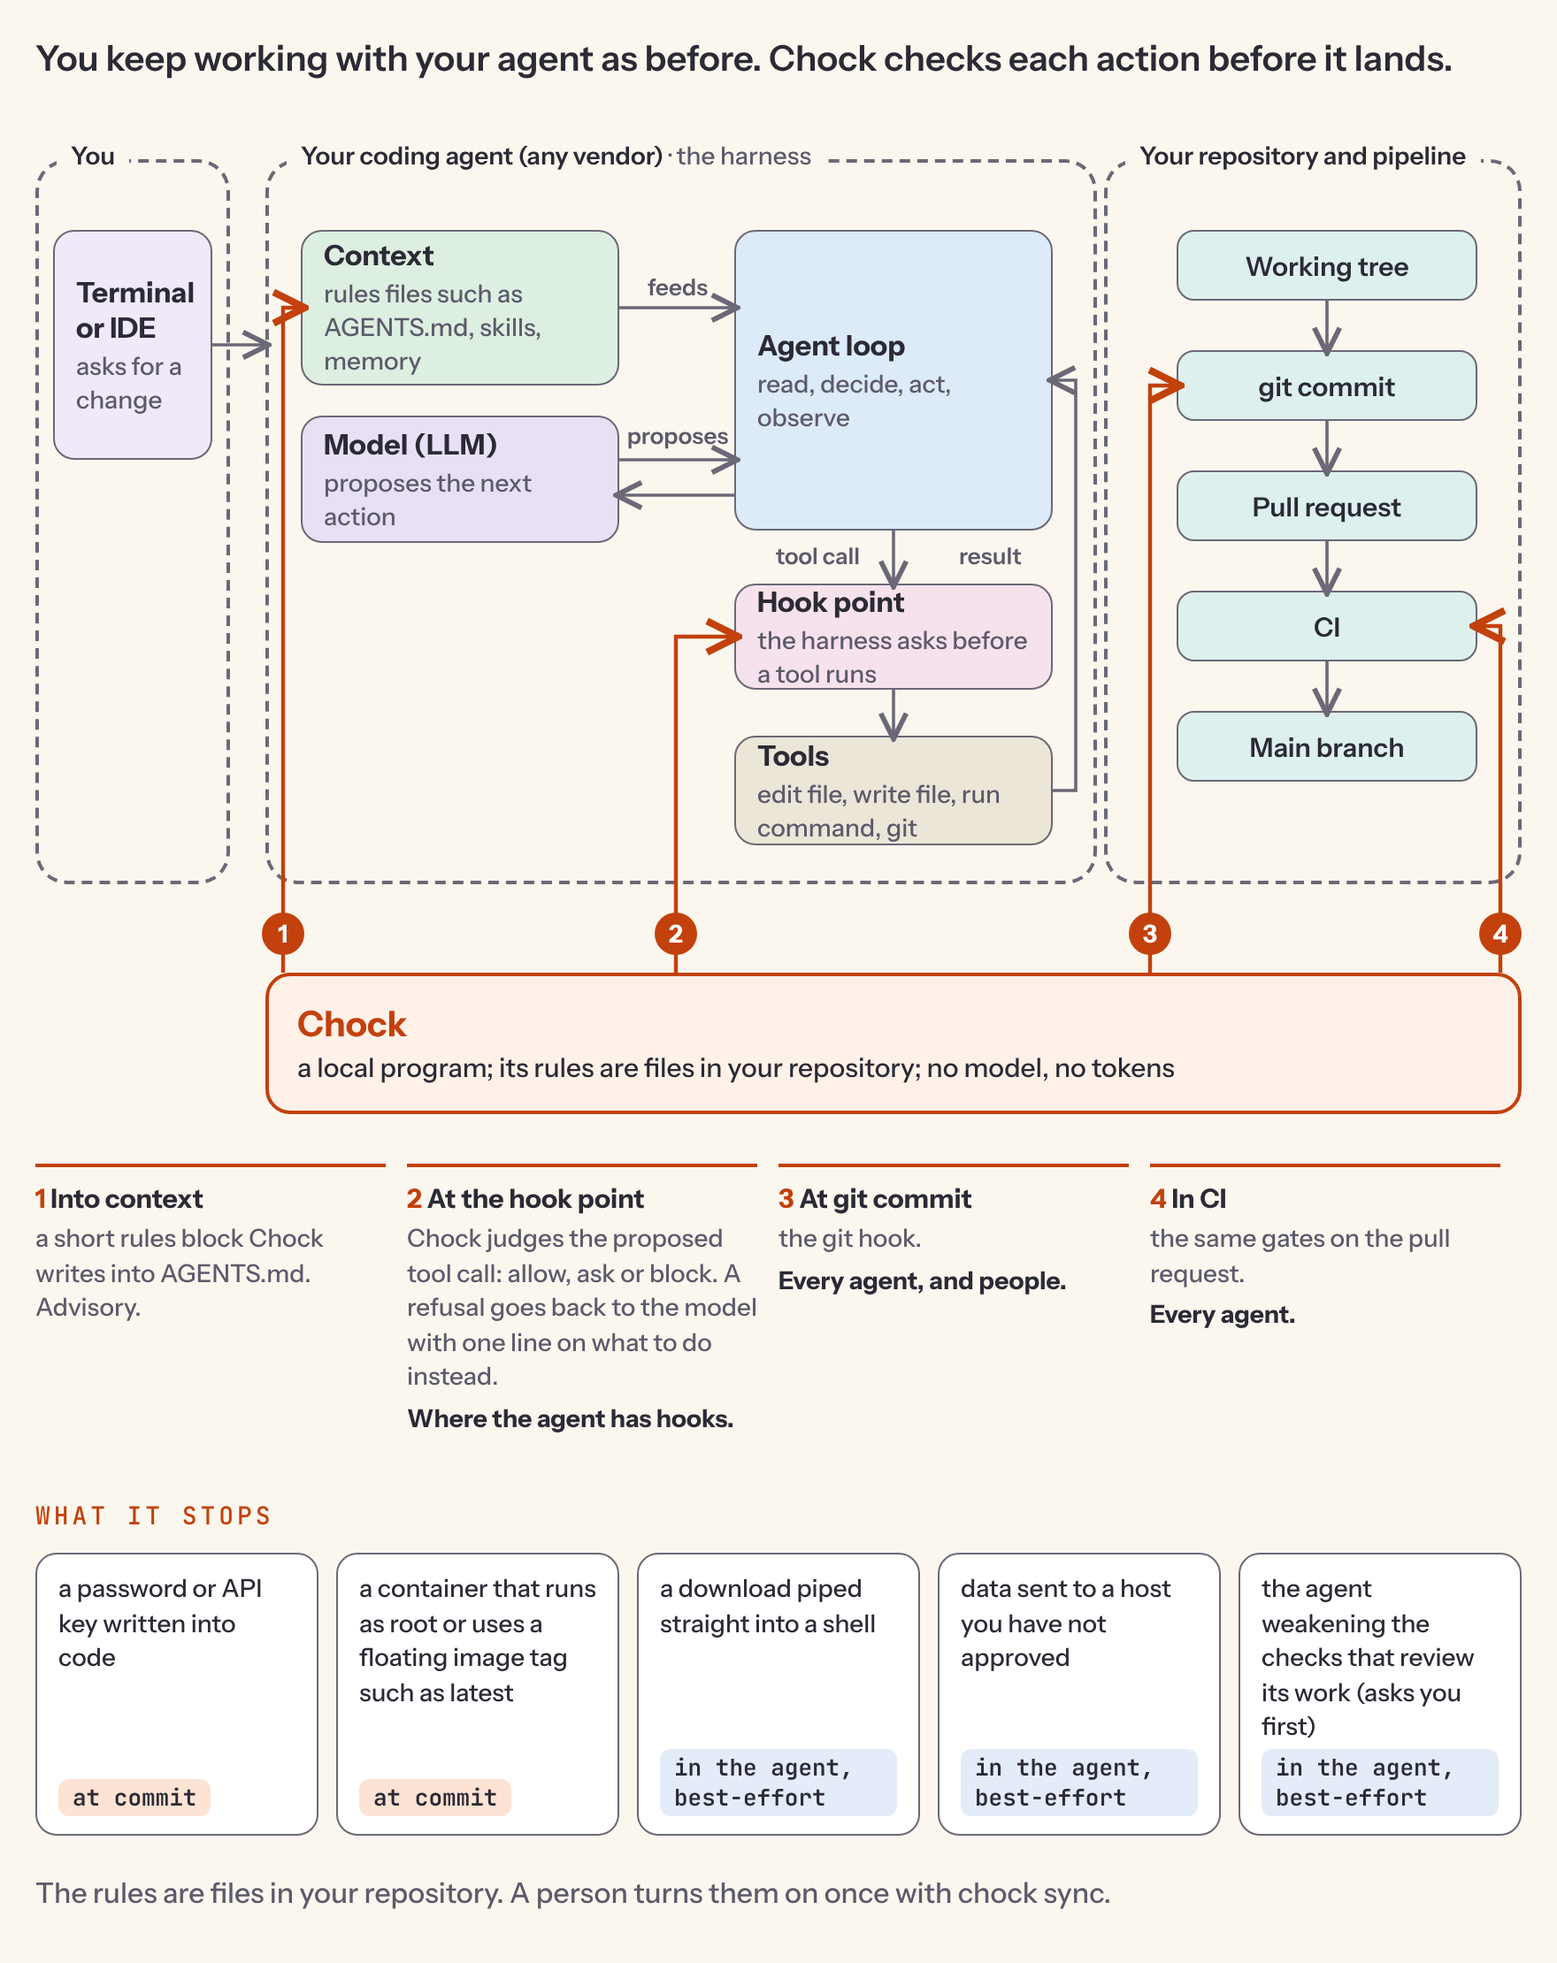
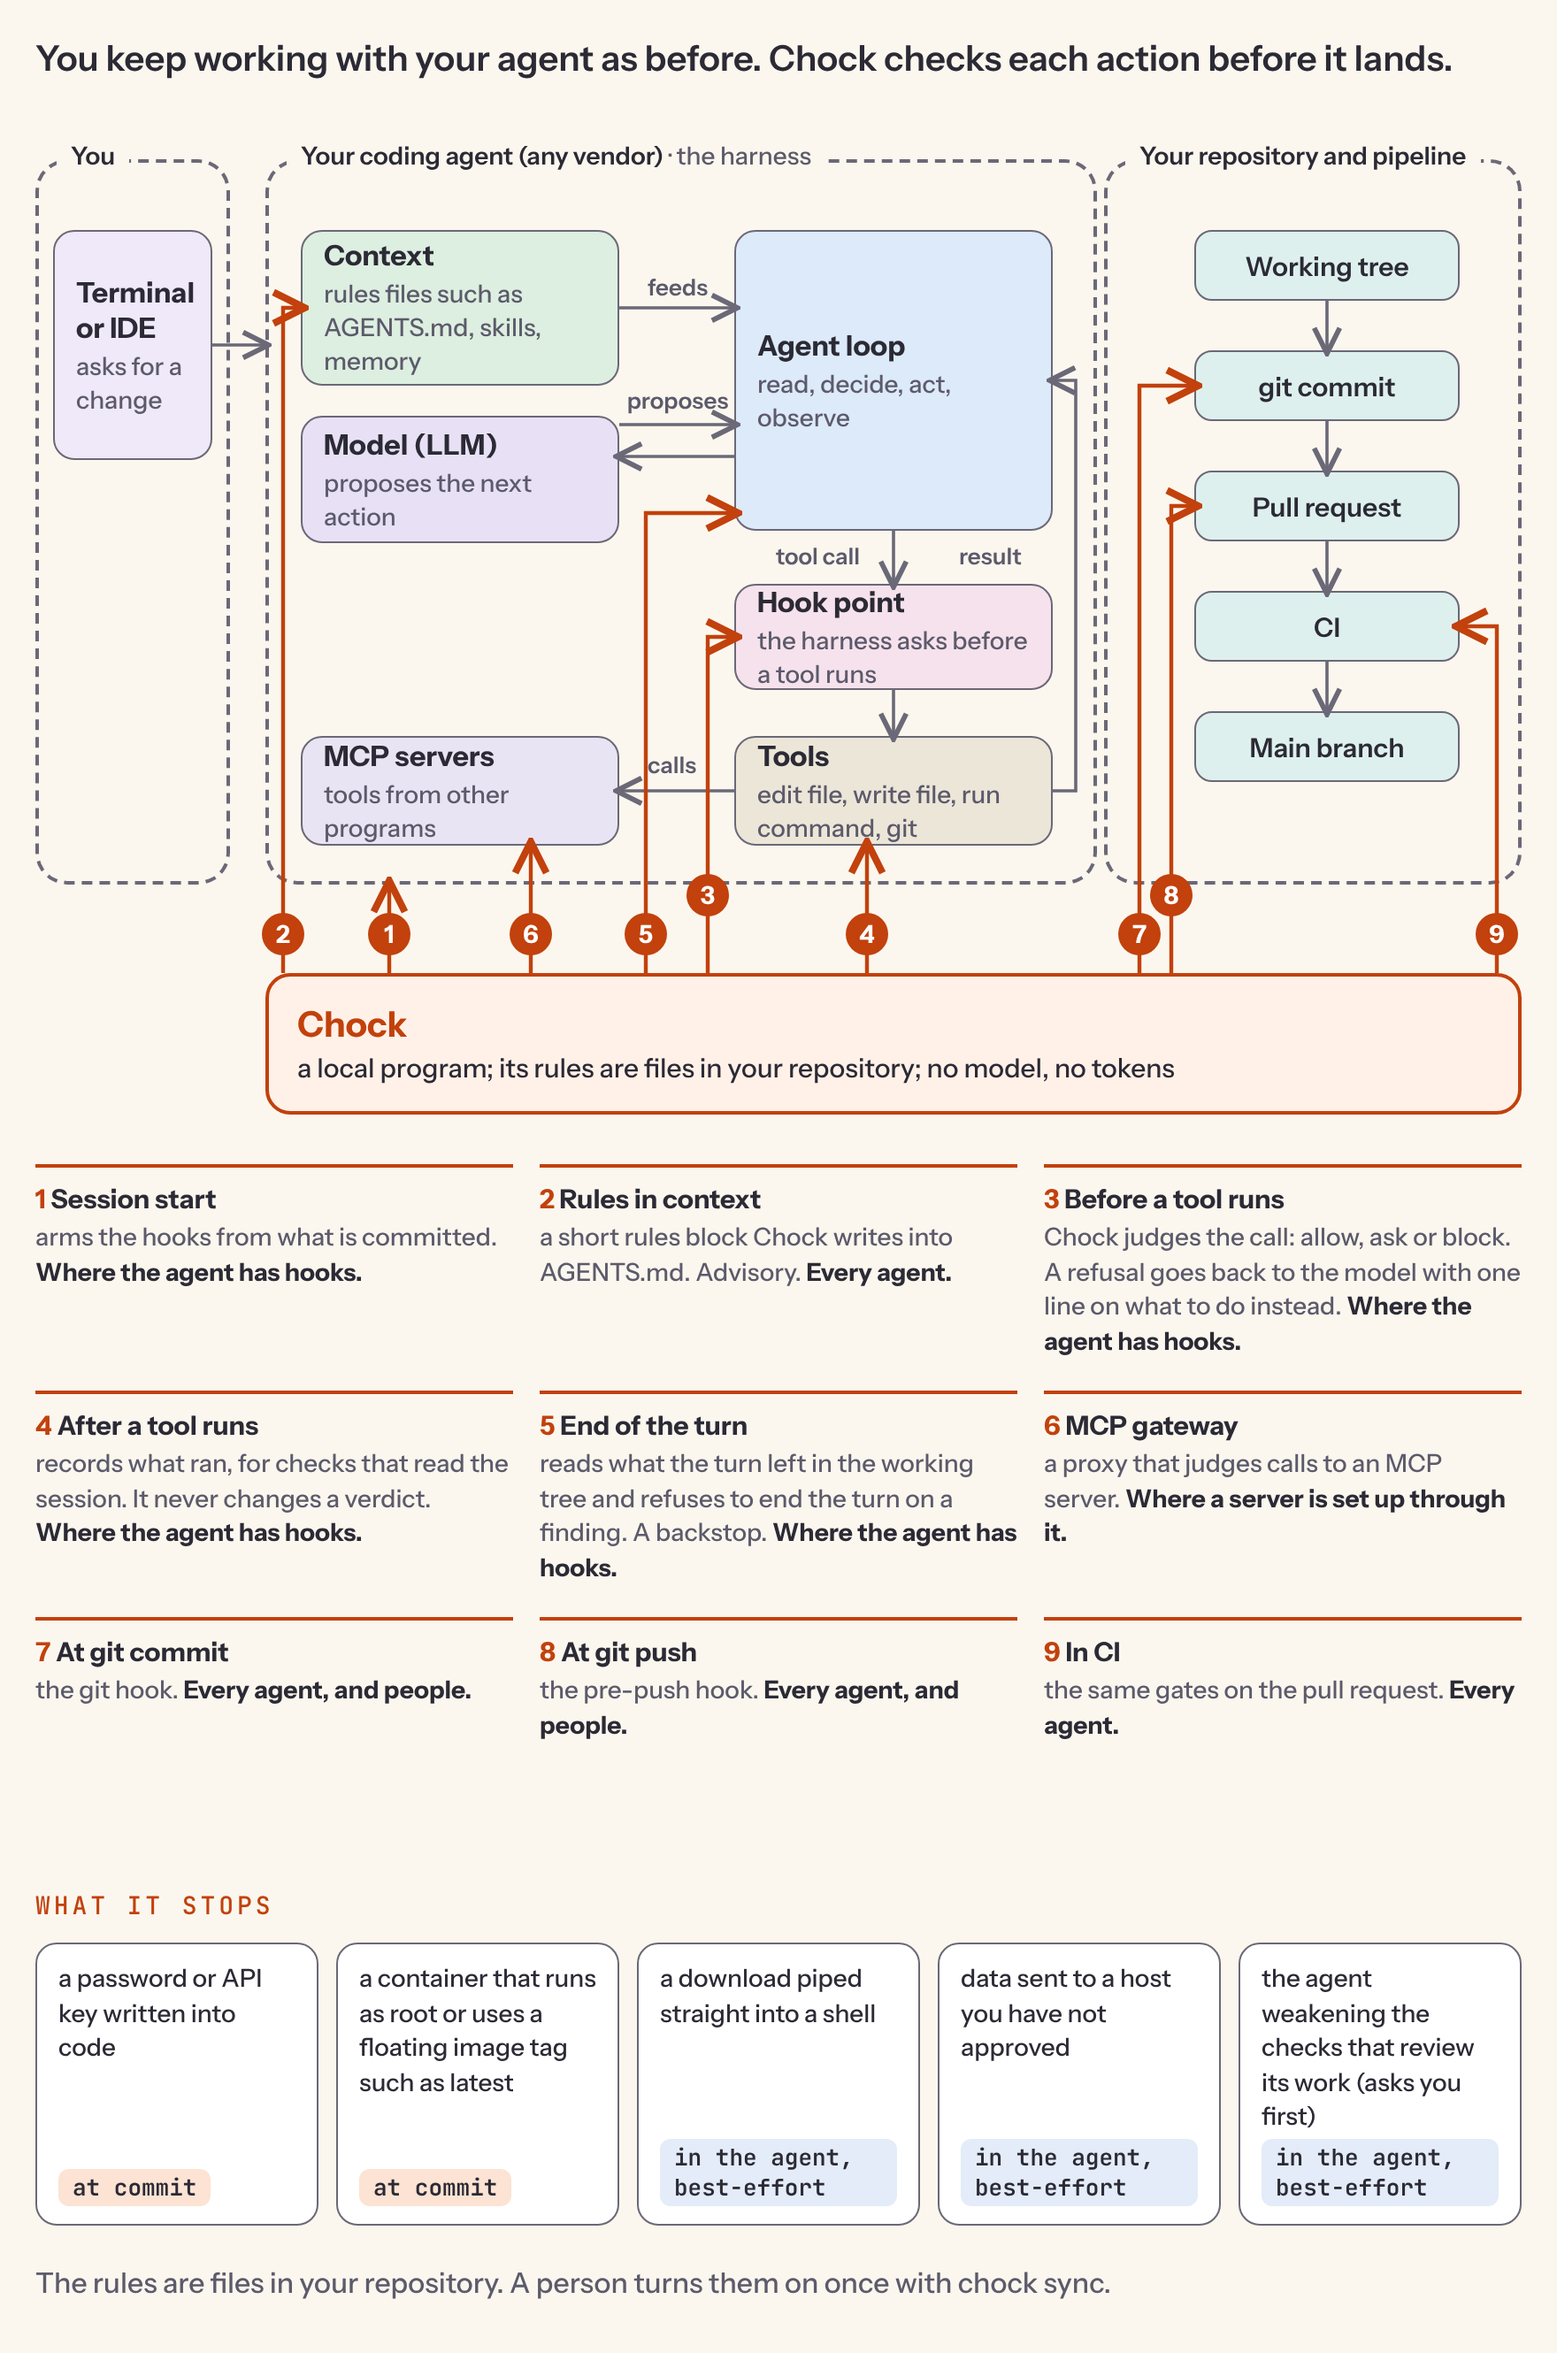
README figure: draw every point where Chock meets the agent and the repo
Nine points in session order, each with its scope and a proving test:
session start, rules block, before and after a tool, end of the turn,
MCP gateway, git commit, git push, CI. The test derives the list from
the engine (surfaces, git script events, agent events in use) and fails
when they differ. No prompt-submit hook is wired, so none is drawn.

diff --git a/tests/test_readme_picture.py b/tests/test_readme_picture.py
@@ -3,13 +3,14 @@
 from __future__ import annotations
 
 import json
+import re
 from pathlib import Path
 
 ROOT = Path(__file__).resolve().parents[1]
 ASSETS = ROOT / "docs" / "assets" / "readme"
 FIGURE = json.loads((ASSETS / "where-chock-sits.json").read_text(encoding="utf-8"))
 PNG = "docs/assets/readme/v2/where-chock-sits.png"
-SCOPES = ["", "where the agent has hooks", "every agent, and people", "every agent"]
+AGENT_EVENTS = {"SESSION_START", "PRE_TOOL", "POST_TOOL", "TOOL_FAILURE", "STOP", "PROMPT_SUBMIT", "SESSION_END"}
 
 
 def test_figure_sits_directly_under_how_it_works_with_the_data_alt() -> None:
@@ -19,26 +20,71 @@ def test_figure_sits_directly_under_how_it_works_with_the_data_alt() -> None:
     assert f'alt="{FIGURE["alt"]}"' in first
 
 
-def test_four_connectors_with_their_scopes_each_tied_to_a_proving_test() -> None:
-    connectors = FIGURE["connectors"]
-    assert [c["n"] for c in connectors] == ["1", "2", "3", "4"]
-    assert [c["scope"] for c in connectors] == SCOPES
-    for connector in connectors:
-        assert connector["proof"], connector["name"]
-        for rel in connector["proof"]:
+SURFACE_POINTS = {"agent-hooks": "pre-tool-use"}
+NOT_DRAWN = {"managed-setting", "gateway", "git-hook"}
+EVENT_POINTS = {
+    "SESSION_START": "session-start",
+    "PRE_TOOL": "pre-tool-use",
+    "POST_TOOL": "post-tool-use",
+    "TOOL_FAILURE": "post-tool-use",
+    "STOP": "stop",
+}
+GIT_POINTS = {"commit": "git-commit", "commit-msg": "git-commit", "push": "git-push"}
+
+
+def engine_points() -> set[str]:
+    """Every point the engine wires: surfaces, git script events and the agent events chock uses."""
+    from chock.compile.emitters import SCRIPT_EVENTS
+    from chock.compile.surface_kinds import Surface
+
+    points = {SURFACE_POINTS.get(s.value, s.value) for s in Surface if s.value not in NOT_DRAWN}
+    points |= {GIT_POINTS[event] for event in SCRIPT_EVENTS}
+    used = {
+        name
+        for path in (ROOT / "src" / "chock").rglob("*.py")
+        for name in re.findall(r"_contract\.([A-Z_]+)", path.read_text(encoding="utf-8"))
+    } & AGENT_EVENTS
+    unmapped = used - set(EVENT_POINTS)
+    assert not unmapped, f"the engine wires an agent event the figure does not draw: {sorted(unmapped)}"
+    return points | {EVENT_POINTS[name] for name in used}
+
+
+def test_figure_points_equal_the_engine_points_in_session_order() -> None:
+    ids = [p["id"] for p in FIGURE["points"]]
+    assert set(ids) == engine_points()
+    assert len(ids) == len(set(ids))
+    assert [p["n"] for p in FIGURE["points"]] == [str(i) for i in range(1, len(ids) + 1)]
+    assert ids == [
+        "session-start", "ambient-rule", "pre-tool-use", "post-tool-use", "stop", "mcp-gateway",
+        "git-commit", "git-push", "ci-gate",
+    ]  # fmt: skip
+
+
+def test_no_prompt_submit_hook_is_wired_so_none_is_drawn() -> None:
+    sources = " ".join(p.read_text(encoding="utf-8") for p in (ROOT / "src" / "chock").rglob("*.py"))
+    assert "PROMPT_SUBMIT" not in sources
+    assert "prompt" not in " ".join(p["id"] for p in FIGURE["points"])
+
+
+def test_every_point_has_a_scope_and_existing_proving_tests() -> None:
+    for point in FIGURE["points"]:
+        assert point["scope"] and point["proof"], point["id"]
+        for rel in point["proof"]:
             assert (ROOT / rel).is_file(), rel
 
 
-def test_connector_proofs_name_what_they_prove() -> None:
-    proofs = {c["n"]: c["proof"] for c in FIGURE["connectors"]}
-    assert "chock:pointer:start" in (ROOT / "src/chock/scaffold/data/pointer_block.md").read_text(encoding="utf-8")
-    assert "permissionDecision" in (ROOT / proofs["2"][1]).read_text(encoding="utf-8")
-    assert "--event ci" in (ROOT / proofs["4"][0]).read_text(encoding="utf-8")
+def test_scopes_say_which_points_depend_on_the_agent() -> None:
+    scopes = {p["id"]: p["scope"] for p in FIGURE["points"]}
+    for point in ("session-start", "pre-tool-use", "post-tool-use", "stop"):
+        assert scopes[point] == "where the agent has hooks", point
+    for point in ("git-commit", "git-push"):
+        assert scopes[point] == "every agent, and people", point
+    assert scopes["ci-gate"] == scopes["ambient-rule"] == "every agent"
 
 
 def test_components_are_generic_and_the_stops_are_five() -> None:
     shown = {k: v for k, v in FIGURE.items() if k != "_"}
-    shown["connectors"] = [{k: v for k, v in c.items() if k != "proof"} for c in FIGURE["connectors"]]
+    shown["points"] = [{k: v for k, v in c.items() if k != "proof"} for c in FIGURE["points"]]
     text = json.dumps(shown).lower()
     for vendor in ("claude", "cursor", "copilot", "codex", "gemini", "devin"):
         assert vendor not in text, vendor

diff --git a/README.md b/README.md
@@ -50,7 +50,7 @@ Tiers: see [Guardrails, not guarantees](#guardrails-not-guarantees).
 
 ## How it works
 
-<p><img src="https://raw.githubusercontent.com/open-coder-ai/chock/main/docs/assets/readme/v2/where-chock-sits.png" alt="A layered sketch: you ask a coding agent for a change; inside the agent a model and an agent loop work with context, and the loop's tool calls pass a hook point before the tools run. Chock sits below with four connectors: a rules block in the agent's context, a judgement at the hook point where the agent has hooks, the git hook at commit and the same gates in CI." width="100%"></p>
+<p><img src="https://raw.githubusercontent.com/open-coder-ai/chock/main/docs/assets/readme/v2/where-chock-sits.png" alt="A layered sketch: you ask a coding agent for a change. Inside the agent, a model and an agent loop work with context, and tool calls pass a hook point before the tools run. Chock sits below and meets the agent at nine points: session start, a rules block in context, before and after each tool, the end of the turn and an MCP gateway, then your repository at git commit, git push and CI." width="100%"></p>
 
 A policy is one folder, and the manifest is the rule. Here is `scan-secrets` in this repo:
 

diff --git a/docs/architecture.md b/docs/architecture.md
@@ -5,7 +5,7 @@ coding agent** that touches your repo — your team's or a contributor's — wit
 exactly where each guarantee holds.
 
 <div align="center">
-  <img src="assets/readme/v2/where-chock-sits.png" alt="A layered sketch: you ask a coding agent for a change; inside the agent a model and an agent loop work with context, and the loop's tool calls pass a hook point before the tools run. Chock sits below with four connectors: a rules block in the agent's context, a judgement at the hook point where the agent has hooks, the git hook at commit and the same gates in CI." width="820">
+  <img src="assets/readme/v2/where-chock-sits.png" alt="A layered sketch: you ask a coding agent for a change. Inside the agent, a model and an agent loop work with context, and tool calls pass a hook point before the tools run. Chock sits below and meets the agent at nine points: session start, a rules block in context, before and after each tool, the end of the turn and an MCP gateway, then your repository at git commit, git push and CI." width="820">
 </div>
 
 <div align="center">

diff --git a/changelog.d/rd7-readme-picture.md b/changelog.d/rd7-readme-picture.md
@@ -1,6 +1,8 @@
 - README: "How it works" opens with a layered sketch of where Chock sits: you, a coding agent's generic parts
-  (model, agent loop, context, hook point, tools), and your repository and pipeline, with Chock's four connectors
-  (a rules block in context, the hook point where the agent has hooks, `git commit`, CI) and five things it stops.
+  (model, agent loop, context, hook point, tools), and your repository and pipeline, with Chock's nine points of contact
+  (session start, the rules block, before and after a tool, end of the turn, the MCP gateway, `git commit`, `git push`,
+  CI), each with its scope, and five things it stops. A test derives the list from the engine and fails when a hook is
+  added without the figure.
   No prose was added: the README stays at its word budget. The figure is `docs/assets/readme/v2/where-chock-sits.png`,
   rendered by `render.mjs` from `where-chock-sits.json`; `docs/architecture.md` shows it above the
   author-compile-enforce figure.
